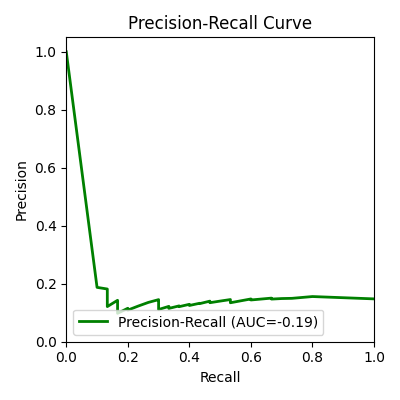
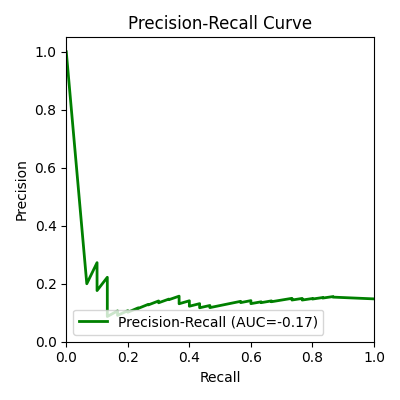
(#1) add reports

Changed region(s): [[0.27, 0.72, 0.87, 0.81], [0.15, 0.15, 0.27, 0.75]]

diff --git a/reports/50krecords/evaluation_report_50krecords.html b/reports/50krecords/evaluation_report_50krecords.html
@@ -17,7 +17,7 @@
             <h1>Evaluation Report</h1>
             <div class="key-metrics">
               <h2>Key Metrics</h2>
-              <ul><li><strong>AUC:</strong> 0.4839</li><li><strong>Accuracy:</strong> 0.5419</li><li><strong>Precision:</strong> 0.1111</li><li><strong>Recall:</strong> 0.3000</li><li><strong>F1-Score:</strong> 0.1622</li></ul>
+              <ul><li><strong>AUC:</strong> 0.4696</li><li><strong>Accuracy:</strong> 0.5764</li><li><strong>Precision:</strong> 0.1410</li><li><strong>Recall:</strong> 0.3667</li><li><strong>F1-Score:</strong> 0.2037</li></ul>
             </div>
             <h2>Confusion Matrix</h2><img src="confusion_matrix.png" width="300">
             <h2>ROC Curve</h2><img src="roc_curve.png" width="300">
@@ -25,12 +25,12 @@
             <h2>Classification Report</h2>
             <pre>              precision    recall  f1-score   support
 
-           0     0.8279    0.5838    0.6847       173
-           1     0.1111    0.3000    0.1622        30
+           0     0.8480    0.6127    0.7114       173
+           1     0.1410    0.3667    0.2037        30
 
-    accuracy                         0.5419       203
-   macro avg     0.4695    0.4419    0.4235       203
-weighted avg     0.7219    0.5419    0.6075       203
+    accuracy                         0.5764       203
+   macro avg     0.4945    0.4897    0.4576       203
+weighted avg     0.7435    0.5764    0.6364       203
 </pre>
           </body>
         </html>
